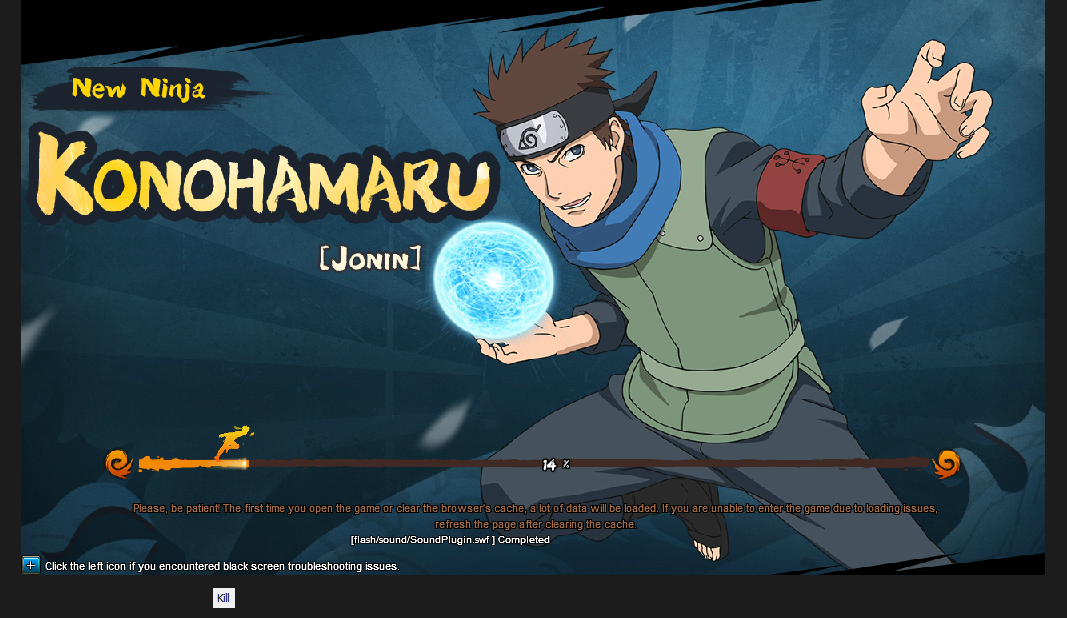
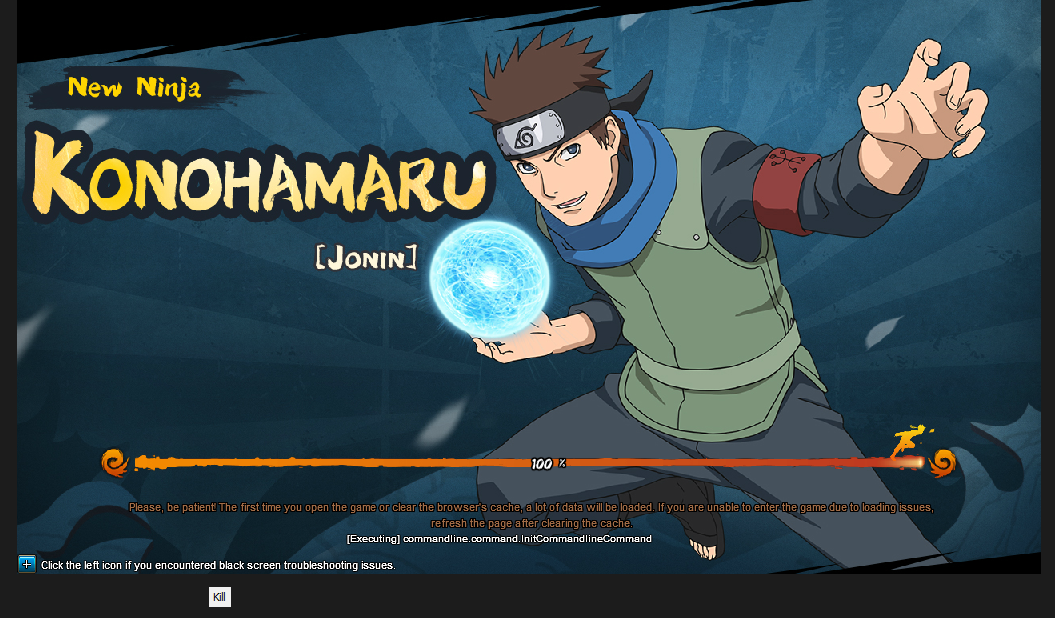
Update progress

diff --git a/README.md b/README.md
@@ -10,9 +10,9 @@ Made with [Encore](https://github.com/glennhenry/Encore).
 
 # Progress
 
-As of now, we have successfully connected the game with our server. We have also discovered the game's protocol partially, but haven't been able to respond correctly.
+As of now, we have successfully connected the game with our server. We have also discovered the game's protocol and has been able to respond correctly.
 
-Right now, stuck in the 14% of loading progress.
+However, we are still stuck in the 100% of loading progress.
 
 <img src="progress.png" alt="gameplay image" width=300/>
 
